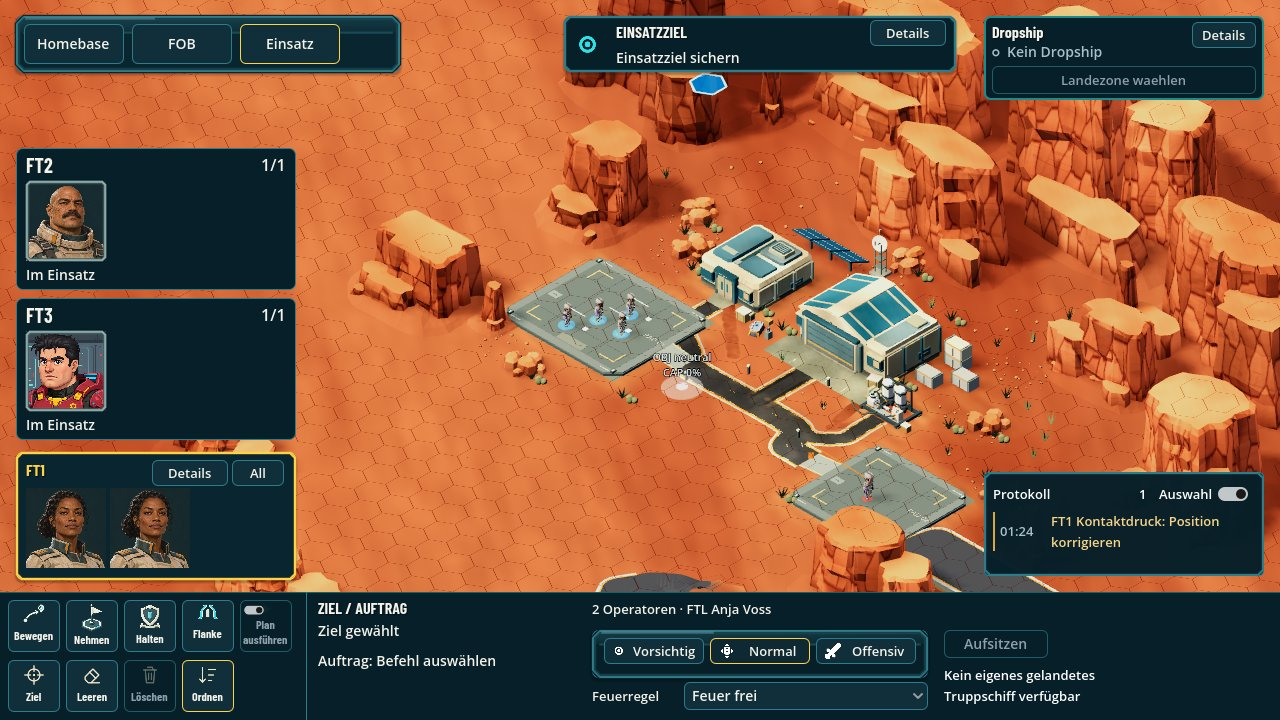
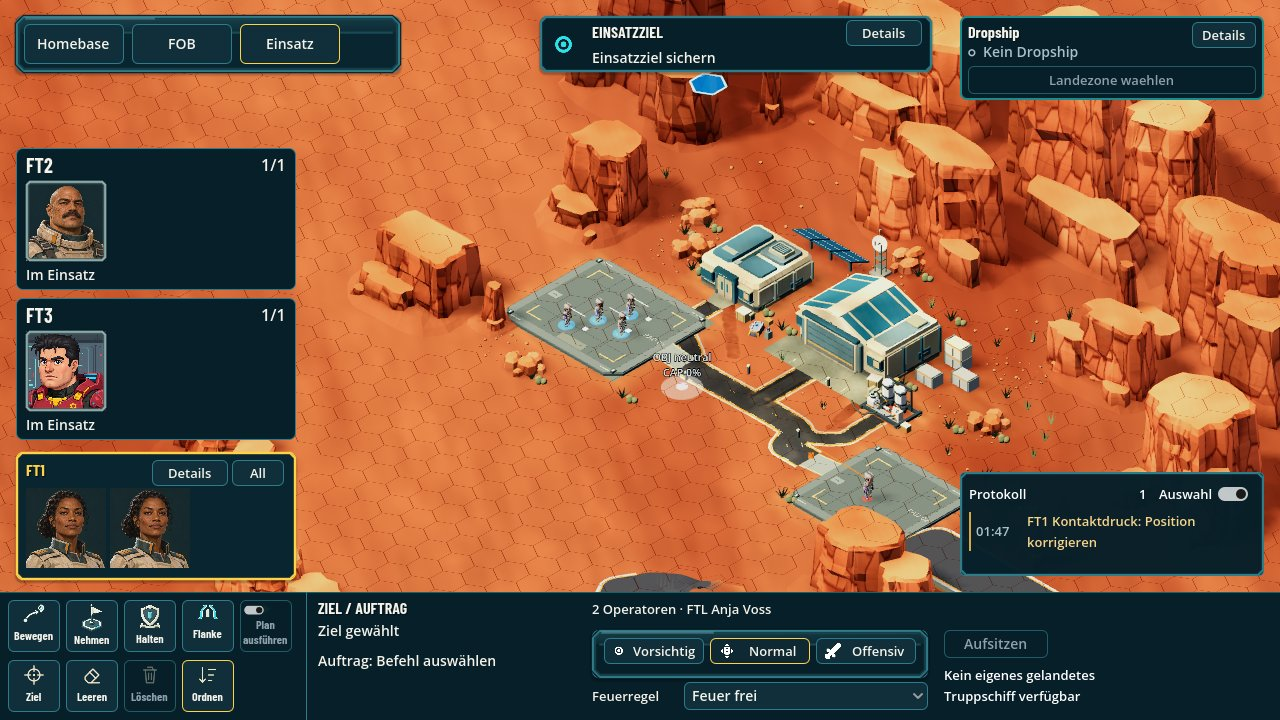
Missionsansicht A5: Dropship-Karte 320 breit, Masstest und Bild mit Schiff

Changed region(s): [[0.6562, 0.0, 0.9375, 0.1528], [0.75, 0.6417, 0.9688, 0.825], [0.4062, 0.0, 0.5938, 0.1222]]

diff --git a/docs/tasks/MISSION_HUD_A5_ANGLEICHUNG_2026_11_15.md b/docs/tasks/MISSION_HUD_A5_ANGLEICHUNG_2026_11_15.md
@@ -64,7 +64,7 @@ umgehaengt oder geloescht; es aendern sich Rechtecke, Mindestgroessen, Schriftgr
 | `card_width` | 280 | 312 | 376 | 300 / 336 / 400 |
 | `portrait_height` | 80 | 88 | 96 | 53 / 58 / 64 |
 | `team_height` | 128 | 136 | 144 | 226 / 238 / 254 |
-| `transport_width` | 280 | 312 | 376 | 344 / 384 / 440 |
+| `transport_width` | 304 | 320 | 376 | 344 / 384 / 440 |
 | `objective_width` | 392 | 440 | 504 | 344 / 400 / 456 |
 | Hoehe `mission_identity` | 56 | 64 | 72 | 88 / 96 / 112 |
 | Hoehe `event_log` | 104 | 120 | 152 | 144 / 144 / 176 |
@@ -244,3 +244,9 @@ Keine neuen Fehlschlaege in vorher fehlgeschlagenen Tests (Fehlerzeilen verglich
 - Schritt 5.2 musste nicht angewendet werden (Protokoll, Dropship-Breite, Hoehe 92 innerhalb der Grenzen).
 - Testszene zeigt Dropship-Karte ohne Schiff ("Kein Dropship"): Schiffsbild und Anflugrad nicht im Bild geprueft.
 
+### Nachtrag: Karte mit Schiff
+Mit Schiff und drei gleichzeitig sichtbaren Knoepfen (Landezone waehlen, Landen, Abheben) brauchen die Knoepfe 303 px bei 296 px Innenbreite der Karte; `transport_width` ist deshalb 304 / 320 / 376 (vorher 280 / 312 / 376). `event_log` und `mission_identity` folgen ueber die vorhandenen Formeln. Gemessen (Verifier-Block mit zwei Schiffen, Karte `a5_ui_lz_1` "Entermesser", Zustand waiting):
+- 1280 x 720: Karte P(960,16) S(304,184)
+- 1920 x 1080: Karte P(1584,16) S(320,198) (Grenze 220)
+- 3440 x 1440: Karte P(3040,24) S(376,220)
+Alle drei Knoepfe sichtbar, ohne `clip_text`, rechter Rand innerhalb des Viewports, keine Ueberschneidung mit Zielkarte und Protokoll. Bilder: `mit_schiff_1920x1080.jpg`, `mit_schiff_1280x720.jpg`.
